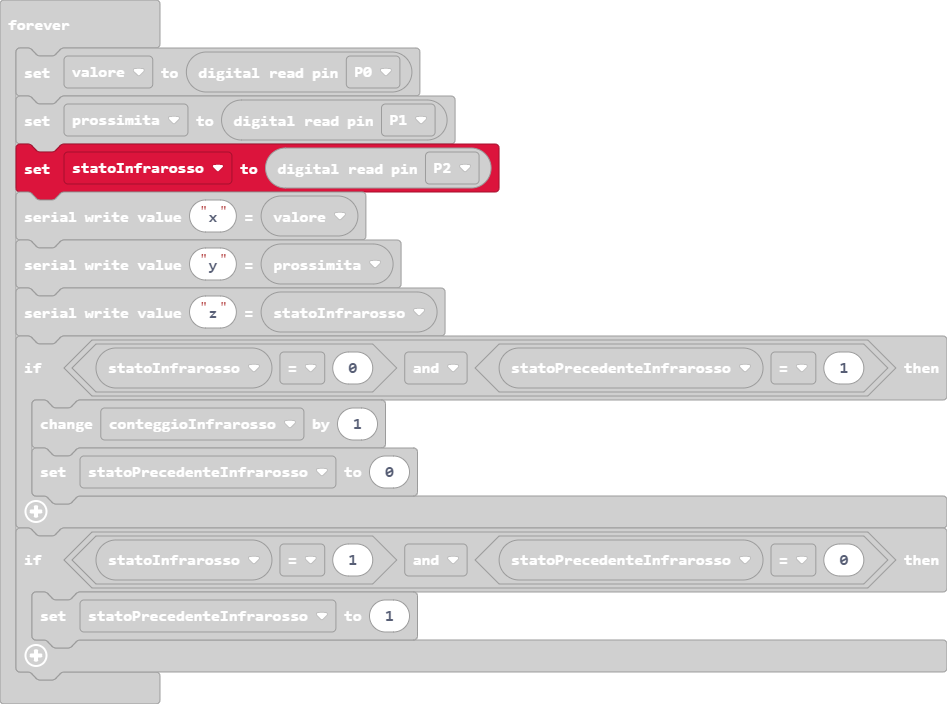
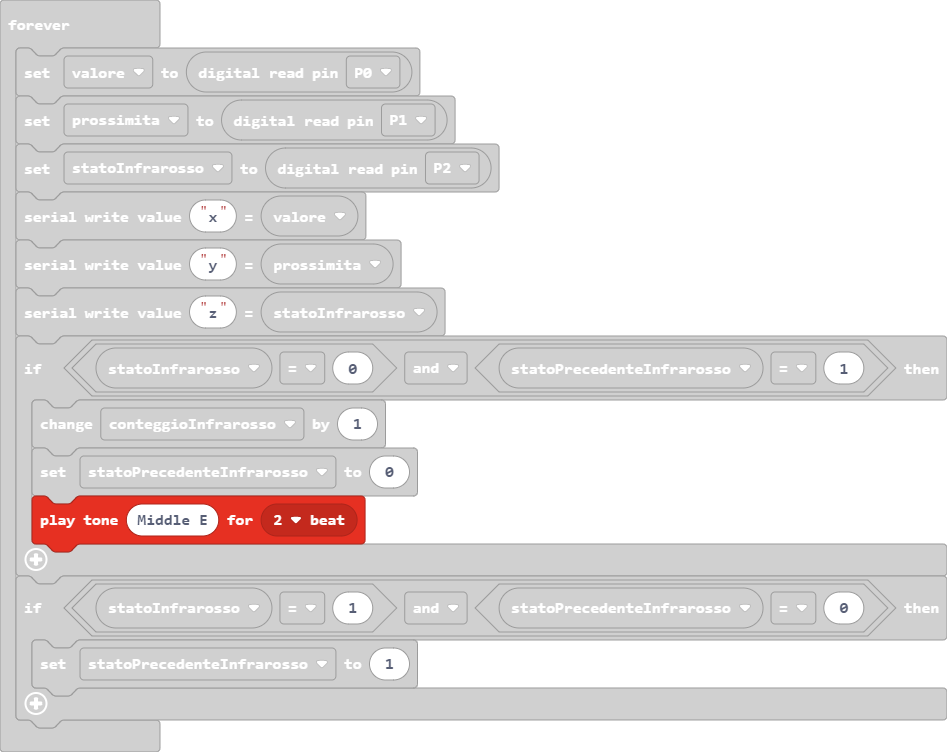
Update main.blocks, main.ts

Changed region(s): [[0.0, 0.0312, 1.0, 0.9688]]

diff --git a/main.ts b/main.ts
@@ -24,6 +24,7 @@ basic.forever(function () {
     if (statoInfrarosso == 0 && statoPrecedenteInfrarosso == 1) {
         conteggioInfrarosso += 1
         statoPrecedenteInfrarosso = 0
+        music.playTone(330, music.beat(BeatFraction.Double))
     }
     if (statoInfrarosso == 1 && statoPrecedenteInfrarosso == 0) {
         statoPrecedenteInfrarosso = 1
